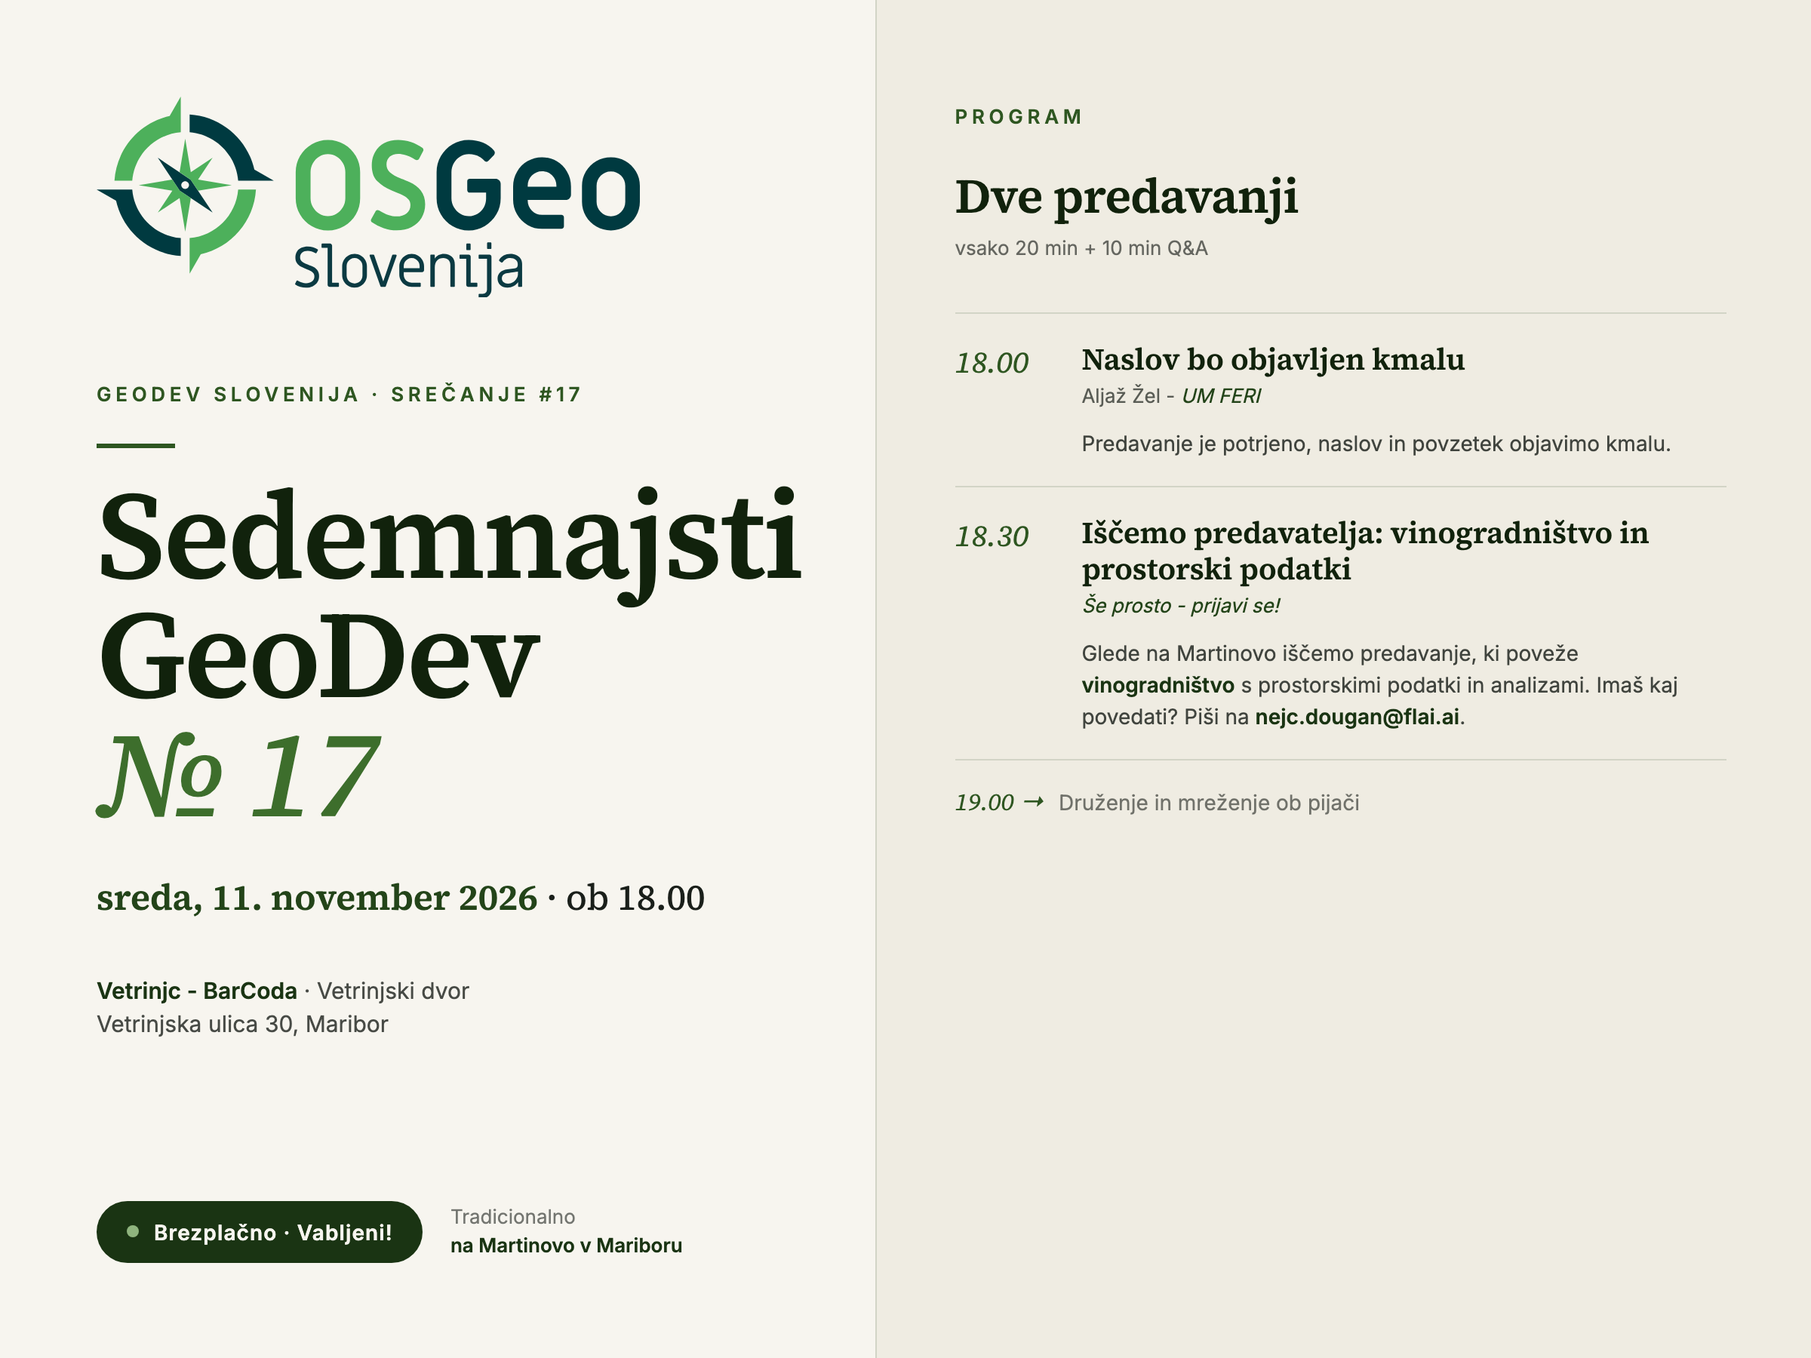
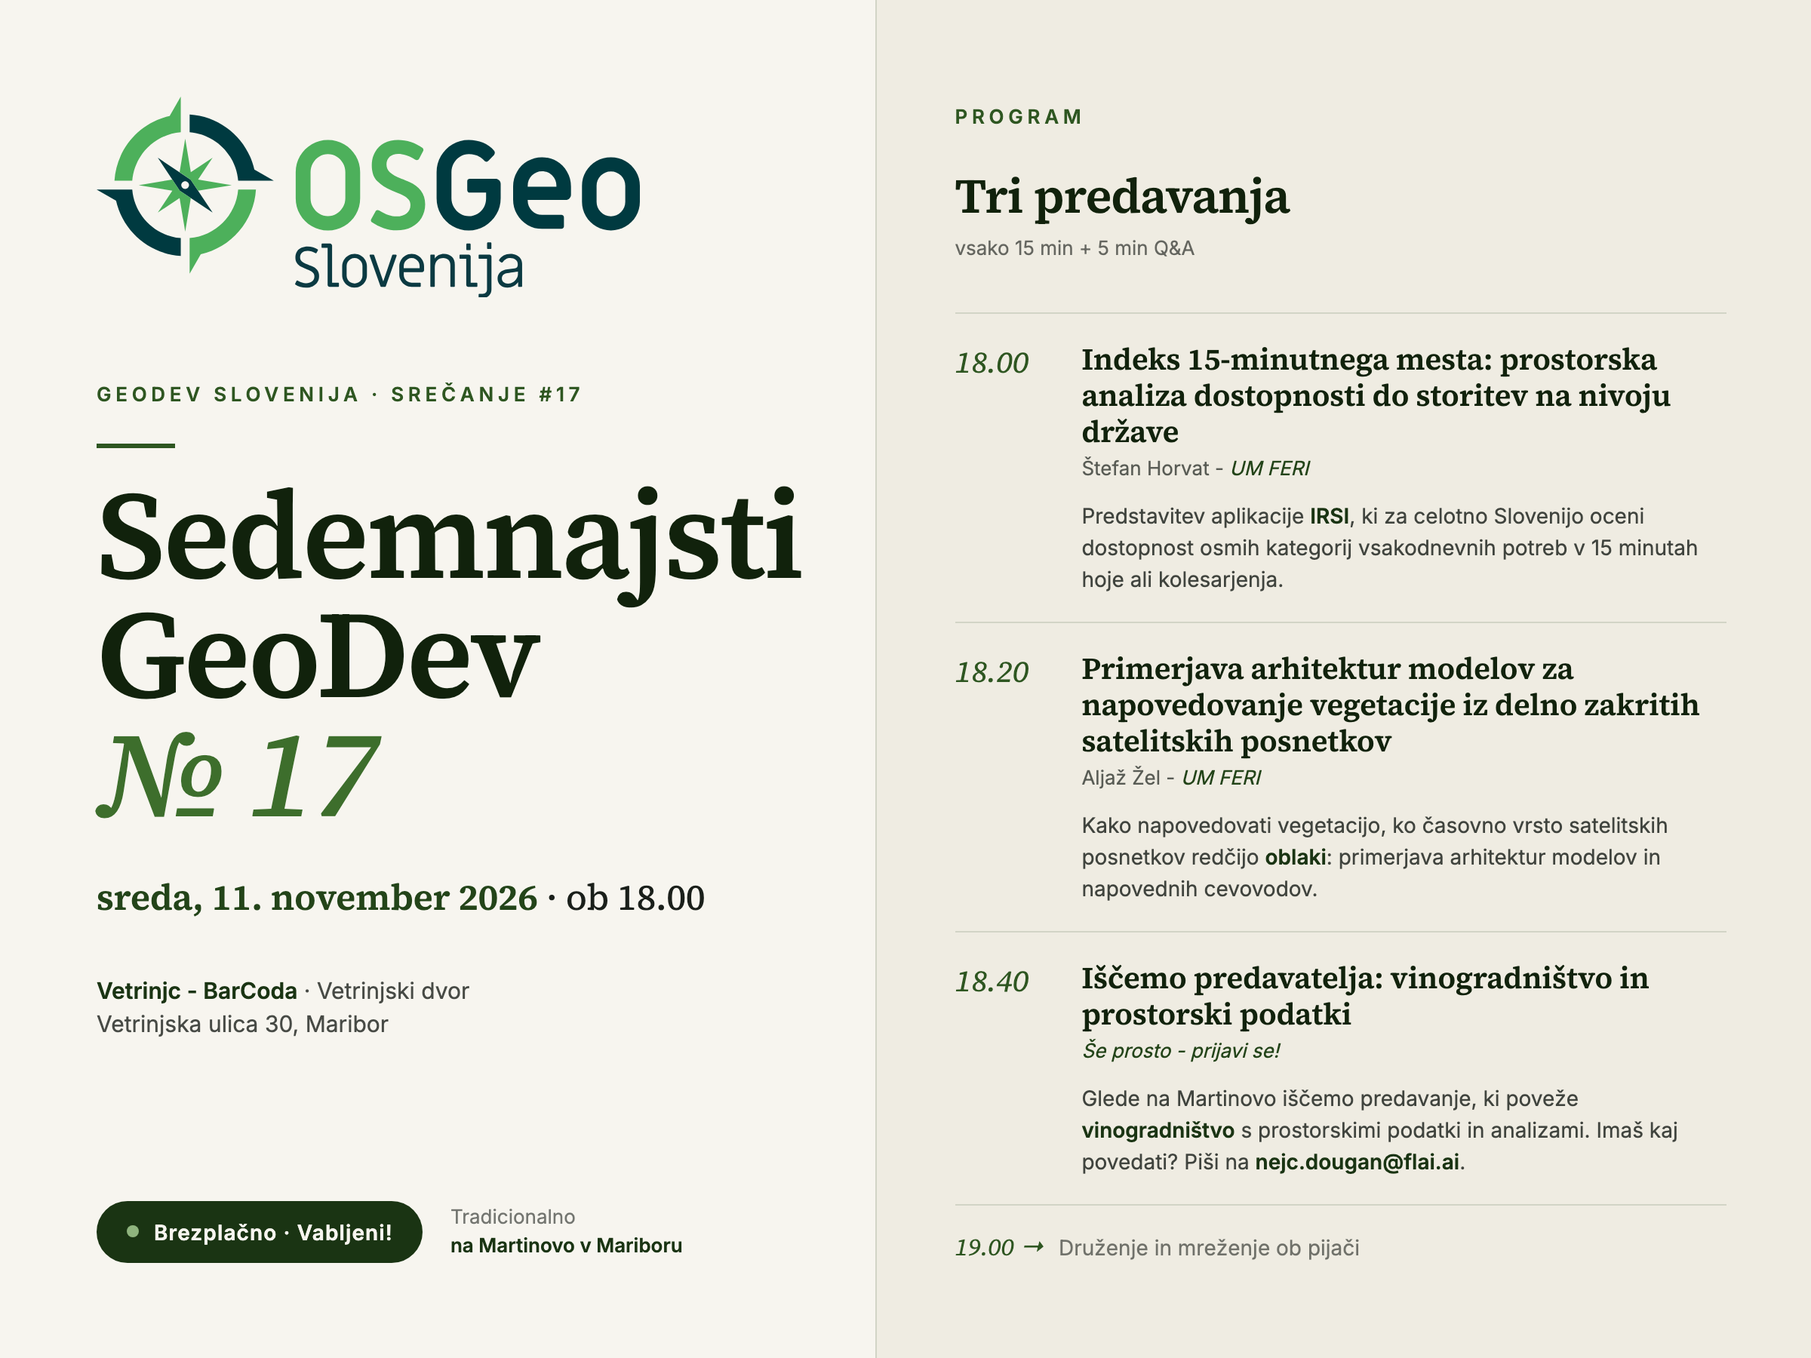
GeoDev 17: program, two confirmed talks

diff --git a/2026-17-meetup/banner-story.html b/2026-17-meetup/banner-story.html
@@ -38,7 +38,7 @@
     position: relative;
     overflow: hidden;
     box-sizing: border-box;
-    padding: 88px 80px 72px 80px;
+    padding: 80px 80px 60px 80px;
     display: flex; flex-direction: column;
   }
 
@@ -70,10 +70,10 @@
     border: 1px solid color-mix(in oklab, var(--moss-700) 8%, transparent);
   }
 
-  .logo { width: 460px; height: auto; position: relative; z-index: 2; }
+  .logo { width: 320px; height: auto; position: relative; z-index: 2; flex-shrink: 0; }
 
   .eyebrow {
-    margin-top: 64px;
+    margin-top: 36px;
     font-size: 22px;
     font-weight: 600;
     letter-spacing: 0.22em;
@@ -86,7 +86,7 @@
   h1 {
     font-family: var(--serif);
     font-weight: 600;
-    font-size: 116px;
+    font-size: 96px;
     line-height: 0.96;
     letter-spacing: -0.02em;
     margin: 28px 0 0 0;
@@ -99,7 +99,7 @@
   }
 
   .when {
-    margin-top: 44px;
+    margin-top: 32px;
     font-family: var(--serif);
     font-size: 40px;
     line-height: 1.18;
@@ -118,7 +118,7 @@
   .where strong { color: var(--moss-800); font-weight: 600; }
 
   .program {
-    margin-top: 64px;
+    margin-top: 36px;
     border-top: 1px solid color-mix(in oklab, var(--moss-700) 22%, transparent);
     padding-top: 32px;
   }
@@ -133,7 +133,7 @@
     display: grid;
     grid-template-columns: 84px 1fr;
     gap: 24px;
-    padding: 28px 0;
+    padding: 18px 0;
     border-bottom: 1px solid color-mix(in oklab, var(--moss-700) 12%, transparent);
   }
   .talk:last-child { border-bottom: none; padding-bottom: 18px; }
@@ -167,6 +167,12 @@
     max-width: 820px;
   }
 
+  .mingle {
+    margin: 8px 0 0 108px;
+    font-size: 22px;
+    color: color-mix(in oklab, var(--ink) 70%, transparent);
+  }
+  .mingle .t { font-family: var(--serif); font-style: italic; color: var(--moss-500); margin-right: 8px; }
   .foot {
     margin-top: auto;
     display: flex;
@@ -244,33 +250,36 @@
   </p>
 
   <div class="program">
-    <p class="program-label">Program · dve predavanji</p>
+    <p class="program-label">Program · tri predavanja</p>
 
     <div class="talk">
       <div class="idx">i.</div>
       <div class="body">
-        <p class="title">Naslov bo objavljen kmalu</p>
-        <p class="who">Aljaž Žel - <em>UM FERI</em></p>
-        <p class="lede">Predavanje je potrjeno, naslov in povzetek objavimo kmalu.</p>
+        <p class="title">Indeks 15-minutnega mesta: prostorska analiza dostopnosti do storitev na nivoju države</p>
+        <p class="who">Štefan Horvat - <em>UM FERI</em></p>
+        <p class="lede">Predstavitev aplikacije <strong>IRSI</strong>, ki za celotno Slovenijo oceni dostopnost osmih kategorij vsakodnevnih potreb v 15 minutah hoje ali kolesarjenja.</p>
       </div>
     </div>
 
     <div class="talk">
       <div class="idx">ii.</div>
       <div class="body">
-        <p class="title">Iščemo predavatelja: vinogradništvo in prostorski podatki</p>
-        <p class="who"><em>Še prosto - prijavi se!</em></p>
-        <p class="lede">Glede na Martinovo iščemo predavanje, ki poveže <strong>vinogradništvo</strong> s prostorskimi podatki in analizami. Imaš kaj povedati? Piši na <strong>nejc.dougan@flai.ai</strong>.</p>
+        <p class="title">Primerjava arhitektur modelov za napovedovanje vegetacije iz delno zakritih satelitskih posnetkov</p>
+        <p class="who">Aljaž Žel - <em>UM FERI</em></p>
+        <p class="lede">Kako napovedovati vegetacijo, ko časovno vrsto satelitskih posnetkov redčijo <strong>oblaki</strong>: primerjava arhitektur modelov in napovednih cevovodov.</p>
       </div>
     </div>
 
     <div class="talk">
       <div class="idx">iii.</div>
       <div class="body">
-        <p class="title">Druženje in mreženje ob pijači</p>
-        <p class="who">od 19.00 dalje</p>
+        <p class="title">Iščemo predavatelja: vinogradništvo in prostorski podatki</p>
+        <p class="who"><em>Še prosto - prijavi se!</em></p>
+        <p class="lede">Glede na Martinovo iščemo predavanje o <strong>vinogradništvu</strong> in prostorskih podatkih. Piši na <strong>nejc.dougan@flai.ai</strong>.</p>
       </div>
     </div>
+
+    <p class="mingle"><span class="t">19.00 →</span> Druženje in mreženje ob pijači</p>
   </div>
 
   <div class="foot">

diff --git a/2026-17-meetup/banner-landscape.html b/2026-17-meetup/banner-landscape.html
@@ -275,21 +275,30 @@
   <!-- RIGHT -->
   <div class="right">
     <p class="program-label">Program</p>
-    <h2>Dve predavanji</h2>
-    <p class="sub">vsako 20 min + 10 min Q&amp;A</p>
+    <h2>Tri predavanja</h2>
+    <p class="sub">vsako 15 min + 5 min Q&amp;A</p>
 
     <div class="talk-list">
       <div class="talk">
         <div class="time">18.00</div>
         <div>
-          <p class="title">Naslov bo objavljen kmalu</p>
-          <p class="who">Aljaž Žel - <em>UM FERI</em></p>
-          <p class="lede">Predavanje je potrjeno, naslov in povzetek objavimo kmalu.</p>
+          <p class="title">Indeks 15-minutnega mesta: prostorska analiza dostopnosti do storitev na nivoju države</p>
+          <p class="who">Štefan Horvat - <em>UM FERI</em></p>
+          <p class="lede">Predstavitev aplikacije <strong>IRSI</strong>, ki za celotno Slovenijo oceni dostopnost osmih kategorij vsakodnevnih potreb v 15 minutah hoje ali kolesarjenja.</p>
         </div>
       </div>
 
       <div class="talk">
-        <div class="time">18.30</div>
+        <div class="time">18.20</div>
+        <div>
+          <p class="title">Primerjava arhitektur modelov za napovedovanje vegetacije iz delno zakritih satelitskih posnetkov</p>
+          <p class="who">Aljaž Žel - <em>UM FERI</em></p>
+          <p class="lede">Kako napovedovati vegetacijo, ko časovno vrsto satelitskih posnetkov redčijo <strong>oblaki</strong>: primerjava arhitektur modelov in napovednih cevovodov.</p>
+        </div>
+      </div>
+
+      <div class="talk">
+        <div class="time">18.40</div>
         <div>
           <p class="title">Iščemo predavatelja: vinogradništvo in prostorski podatki</p>
           <p class="who"><em>Še prosto - prijavi se!</em></p>

diff --git a/2026-17-meetup/najava.md b/2026-17-meetup/najava.md
@@ -13,7 +13,7 @@ Besedila za napoved sedemnajstega GeoDev srečanja na različnih kanalih.
 
 ---
 
-🍇 **GeoDev Slovenija #17** se tradicionalno vrača **na Martinovo v Maribor**! Prvo predavanje je že potrjeno, za drugo pa še iščemo predavatelja, ki bi povezal **vinogradništvo** ter **prostorske podatke in analize**.
+🍇 **GeoDev Slovenija #17** se tradicionalno vrača **na Martinovo v Maribor**! Potrjeni sta dve predavanji, za tretje pa še iščemo predavatelja, ki bi povezal **vinogradništvo** ter **prostorske podatke in analize**.
 
 📍 Vetrinjc - BarCoda, Vetrinjski dvor, Vetrinjska ulica 30, Maribor
 📅 sreda, 11. november 2026
@@ -21,22 +21,25 @@ Besedila za napoved sedemnajstega GeoDev srečanja na različnih kanalih.
 
 **Program:**
 
-→ **Naslov bo objavljen kmalu** · *Aljaž Žel, UM FERI*
-Predavanje je potrjeno, naslov in povzetek objavimo kmalu.
+→ **Indeks 15-minutnega mesta: prostorska analiza dostopnosti do storitev na nivoju države** · *Štefan Horvat, UM FERI*
+Predstavitev IRSI, spletne aplikacije, ki za celotno Slovenijo oceni dostopnost osmih kategorij vsakodnevnih potreb v 15 minutah hoje ali kolesarjenja.
+
+→ **Primerjava arhitektur modelov za napovedovanje vegetacije iz delno zakritih satelitskih posnetkov** · *Aljaž Žel, UM FERI*
+Kako napovedovati vegetacijo, ko časovno vrsto satelitskih posnetkov redčijo oblaki: primerjava arhitektur modelov in napovednih cevovodov.
 
 → **Iščemo predavatelja: vinogradništvo in prostorski podatki**
 Imaš projekt, analizo ali orodje, ki povezuje vinograde in prostorske podatke? Piši na nejc.dougan@flai.ai.
 
 Dogodek je **brezplačen** in odprt vsem - od navdušencev do GIS profesionalcev. Omejeno število mest, zato priporočamo prijavo: https://osgeo.si/#/dogodki/geodev-17 🦝
 
-#GeoDev #OSGeo #Slovenija #GIS #Maribor #Martinovo #Vinogradništvo #Geospatial #OpenSource
+#GeoDev #OSGeo #Slovenija #GIS #Maribor #Martinovo #RemoteSensing #MachineLearning #Vinogradništvo #Geospatial #OpenSource
 
 ---
 
 ## 2. Newsletter / e-mail (MailChimp)
 
 > **Subject:** GeoDev #17 - vabljeni na sedemnajsto srečanje 🌍
-> **Preview text:** Na Martinovo v Mariboru: predavanje Aljaža Žela (UM FERI), za drugo predavanje pa iščemo temo, ki poveže vinogradništvo in prostorske podatke.
+> **Preview text:** Na Martinovo v Mariboru: indeks 15-minutnega mesta za vso Slovenijo in napovedovanje vegetacije iz oblačnih satelitskih posnetkov, za tretje predavanje pa iščemo temo, ki poveže vinogradništvo in prostorske podatke.
 
 ---
 
@@ -46,14 +49,19 @@ GeoDev Meetup Slovenija se tradicionalno seli **na Martinovo v Maribor**. Vabimo
 
 ### Program
 
-**18.00 - Naslov bo objavljen kmalu**
+**18.00 - Indeks 15-minutnega mesta: prostorska analiza dostopnosti do storitev na nivoju države**
+*Štefan Horvat, UM FERI*
+
+Model 15-minutnega mesta predvideva, da so vsakodnevne potrebe dostopne v kratkem času hoje ali kolesarjenja. Predstavljen bo IRSI (Indeks razvitosti Slovenije), interaktivna spletna aplikacija za vrednotenje dostopnosti storitev na območju celotne Slovenije. Aplikacija ocenjuje dostopnost osmih kategorij vsakodnevnih potreb v 15 minutah hoje ali kolesarjenja na podlagi cestnega omrežja in podatkov o približno 34.500 lokacijah. Predstavljeni bodo metodologija, tehnična zasnova in možnosti uporabe pri prostorskem načrtovanju ter analizi investicijskih priložnosti.
+
+**18.20 - Primerjava arhitektur modelov za napovedovanje vegetacije iz delno zakritih satelitskih posnetkov**
 *Aljaž Žel, UM FERI*
 
-Predavanje je potrjeno, naslov in povzetek objavimo kmalu.
+Kratkoročno napovedovanje vegetacije iz satelitskih posnetkov pogosto ovira oblačnost, zaradi katere je časovna vrsta posnetkov redka in neenakomerno vzorčena. Obstoječi pristopi večinoma predpostavljajo vhodne podatke brez oblakov. V sklopu predstavitve bodo primerjane različne arhitekture modelov in zasnove napovednih cevovodov, pri katerih so manjkajoči podatki najprej zapolnjeni ali pa je napovedovanje izvedeno neposredno na podlagi razpoložljivih opazovanj. Ob tem bo prikazano širše metodološko vprašanje napovedovanja v okoliščinah, ko vsa opazovanja niso na voljo, in kako je pristop mogoče prenesti na druga področja.
 
-**18.30 - Iščemo predavatelja: vinogradništvo in prostorski podatki**
+**18.40 - Iščemo predavatelja: vinogradništvo in prostorski podatki**
 
-Drugo predavanje je še prosto! Glede na datum dogodka iščemo predavanje, ki bi povezalo **vinogradništvo** ter **prostorske podatke in analize**. Če bi kaj želel povedati, piši na [nejc.dougan@flai.ai](mailto:nejc.dougan@flai.ai).
+Tretje predavanje je še prosto! Glede na datum dogodka iščemo predavanje, ki bi povezalo **vinogradništvo** ter **prostorske podatke in analize**. Če bi kaj želel povedati, piši na [nejc.dougan@flai.ai](mailto:nejc.dougan@flai.ai).
 
 **19.00 - Druženje in mreženje ob pijači**
 
@@ -83,18 +91,23 @@ P.S.: Imate temo, o kateri bi želeli predavati, ali poznate koga, ki ga je vred
 
 ---
 
-Sedemnajsti **GeoDev Meetup** bo tradicionalno **na Martinovo v Mariboru**. Dve predavanji (vsako 20 minut + 10 minut Q&A), nato druženje ob pijači.
+Sedemnajsti **GeoDev Meetup** bo tradicionalno **na Martinovo v Mariboru**. Tri predavanja (vsako 15 minut + 5 minut Q&A), nato druženje ob pijači.
 
 ## 🗓 Program
 
-**18.00 · Naslov bo objavljen kmalu**
+**18.00 · Indeks 15-minutnega mesta: prostorska analiza dostopnosti do storitev na nivoju države**
+*Štefan Horvat, UM FERI*
+
+Model 15-minutnega mesta predvideva, da so vsakodnevne potrebe dostopne v kratkem času hoje ali kolesarjenja. Predstavljen bo IRSI (Indeks razvitosti Slovenije), interaktivna spletna aplikacija za vrednotenje dostopnosti storitev na območju celotne Slovenije. Aplikacija ocenjuje dostopnost osmih kategorij vsakodnevnih potreb v 15 minutah hoje ali kolesarjenja na podlagi cestnega omrežja in podatkov o približno 34.500 lokacijah. Predstavljeni bodo metodologija, tehnična zasnova in možnosti uporabe pri prostorskem načrtovanju ter analizi investicijskih priložnosti.
+
+**18.20 · Primerjava arhitektur modelov za napovedovanje vegetacije iz delno zakritih satelitskih posnetkov**
 *Aljaž Žel, UM FERI*
 
-Predavanje je potrjeno, naslov in povzetek objavimo kmalu.
+Kratkoročno napovedovanje vegetacije iz satelitskih posnetkov pogosto ovira oblačnost, zaradi katere je časovna vrsta posnetkov redka in neenakomerno vzorčena. Obstoječi pristopi večinoma predpostavljajo vhodne podatke brez oblakov. V sklopu predstavitve bodo primerjane različne arhitekture modelov in zasnove napovednih cevovodov, pri katerih so manjkajoči podatki najprej zapolnjeni ali pa je napovedovanje izvedeno neposredno na podlagi razpoložljivih opazovanj. Ob tem bo prikazano širše metodološko vprašanje napovedovanja v okoliščinah, ko vsa opazovanja niso na voljo, in kako je pristop mogoče prenesti na druga področja.
 
-**18.30 · Iščemo predavatelja: vinogradništvo in prostorski podatki**
+**18.40 · Iščemo predavatelja: vinogradništvo in prostorski podatki**
 
-Drugo predavanje je še prosto! Glede na datum dogodka iščemo predavanje, ki bi povezalo **vinogradništvo** ter **prostorske podatke in analize**. Če bi kaj želel povedati, piši na [nejc.dougan@flai.ai](mailto:nejc.dougan@flai.ai).
+Tretje predavanje je še prosto! Glede na datum dogodka iščemo predavanje, ki bi povezalo **vinogradništvo** ter **prostorske podatke in analize**. Če bi kaj želel povedati, piši na [nejc.dougan@flai.ai](mailto:nejc.dougan@flai.ai).
 
 **19.00 · Druženje in mreženje ob pijači**
 
@@ -116,8 +129,9 @@ Dogodek je **brezplačen** in odprt vsem - od navdušencev do GIS profesionalcev
 
 🍇 **GeoDev Slovenija #17** - sreda, 11. november 2026, 18.00, Vetrinjc - BarCoda, Maribor. Tradicionalno na Martinovo!
 
-Dve predavanji:
-• **Naslov kmalu** (Aljaž Žel, UM FERI)
+Tri predavanja:
+• **Indeks 15-minutnega mesta: prostorska analiza dostopnosti do storitev na nivoju države** (Štefan Horvat, UM FERI)
+• **Primerjava arhitektur modelov za napovedovanje vegetacije iz delno zakritih satelitskih posnetkov** (Aljaž Žel, UM FERI)
 • **Iščemo predavatelja!** Imaš kaj povedati o vinogradništvu in prostorskih podatkih? Piši na nejc.dougan@flai.ai
 
 Omejeno število mest. Več o programu in prijava → {{LUMA_URL}}
@@ -130,7 +144,7 @@ Omejeno število mest. Več o programu in prijava → {{LUMA_URL}}
 
 ---
 
-🍇 GeoDev #17 - na Martinovo, 11. nov 2026, 18.00 v Vetrinjcu, Maribor. Predava Aljaž Žel (UM FERI), za drugo predavanje iščemo temo o vinogradništvu in prostorskih podatkih. Brezplačno, prijava: {{LUMA_URL}} #GeoDev #OSGeo #GIS
+🍇 GeoDev #17 - na Martinovo, 11. nov 2026, 18.00 v Vetrinjcu, Maribor. 15-minutno mesto (Š. Horvat) · vegetacija iz oblačnih satelitskih posnetkov (A. Žel), za tretje predavanje iščemo temo o vinogradništvu. Brezplačno, prijava: {{LUMA_URL}} #GeoDev #OSGeo #GIS
 
 ---
 
@@ -140,4 +154,4 @@ Omejeno število mest. Več o programu in prijava → {{LUMA_URL}}
 
 ---
 
-**GeoDev Meetup #17** poteka tradicionalno na Martinovo, v sredo, **11. novembra 2026, ob 18.00** v Vetrinjcu - BarCodi (Vetrinjski dvor) v Mariboru. Prvo predavanje bo imel Aljaž Žel (UM FERI), naslov objavimo kmalu. Za drugo predavanje še iščemo predavatelja: glede na datum bi radi slišali predavanje, ki poveže vinogradništvo ter prostorske podatke in analize. Če bi kaj želel povedati, piši na [nejc.dougan@flai.ai](mailto:nejc.dougan@flai.ai). Dogodek je brezplačen, prijava prek [Luma]({{LUMA_URL}}).
+**GeoDev Meetup #17** poteka tradicionalno na Martinovo, v sredo, **11. novembra 2026, ob 18.00** v Vetrinjcu - BarCodi (Vetrinjski dvor) v Mariboru. Štefan Horvat (UM FERI) bo predstavil indeks 15-minutnega mesta, prostorsko analizo dostopnosti do storitev na nivoju države, Aljaž Žel (UM FERI) pa primerjavo arhitektur modelov za napovedovanje vegetacije iz delno zakritih satelitskih posnetkov. Za tretje predavanje še iščemo predavatelja: glede na datum bi radi slišali predavanje, ki poveže vinogradništvo ter prostorske podatke in analize. Če bi kaj želel povedati, piši na [nejc.dougan@flai.ai](mailto:nejc.dougan@flai.ai). Dogodek je brezplačen, prijava prek [Luma]({{LUMA_URL}}).

diff --git a/2026-17-meetup/README.md b/2026-17-meetup/README.md
@@ -9,20 +9,28 @@
 
 ## Program
 
-Tokrat že tradicionalno __na Martinovo v Mariboru__, z __dvema predavanjema__ (vsako 20 min + 10 min Q&A).
+Tokrat že tradicionalno __na Martinovo v Mariboru__, s __tremi predavanji__ (vsako 15 min + 5 min Q&A).
 
 
-__Naslov bo objavljen kmalu__
-18:00 - 18:30
-Predavanje je potrjeno, naslov in povzetek bosta objavljena kmalu.
+__Indeks 15-minutnega mesta: prostorska analiza dostopnosti do storitev na nivoju države__
+18:00 - 18:20
+Model 15-minutnega mesta predvideva, da so vsakodnevne potrebe dostopne v kratkem času hoje ali kolesarjenja. Predstavljen bo IRSI (Indeks razvitosti Slovenije), interaktivna spletna aplikacija za vrednotenje dostopnosti storitev na območju celotne Slovenije. Aplikacija ocenjuje dostopnost osmih kategorij vsakodnevnih potreb v 15 minutah hoje ali kolesarjenja na podlagi cestnega omrežja in podatkov o približno 34.500 lokacijah. Predstavljeni bodo metodologija, tehnična zasnova in možnosti uporabe pri prostorskem načrtovanju ter analizi investicijskih priložnosti.
+
+Štefan Horvat, Univerza v Mariboru, Fakulteta za elektrotehniko, računalništvo in informatiko (UM FERI)
+
+---
+
+__Primerjava arhitektur modelov za napovedovanje vegetacije iz delno zakritih satelitskih posnetkov__
+18:20 - 18:40
+Kratkoročno napovedovanje vegetacije iz satelitskih posnetkov pogosto ovira oblačnost, zaradi katere je časovna vrsta posnetkov redka in neenakomerno vzorčena. Obstoječi pristopi večinoma predpostavljajo vhodne podatke brez oblakov. V sklopu predstavitve bodo primerjane različne arhitekture modelov in zasnove napovednih cevovodov, pri katerih so manjkajoči podatki najprej zapolnjeni ali pa je napovedovanje izvedeno neposredno na podlagi razpoložljivih opazovanj. Ob tem bo prikazano širše metodološko vprašanje napovedovanja v okoliščinah, ko vsa opazovanja niso na voljo, in kako je pristop mogoče prenesti na druga področja.
 
 Aljaž Žel, Univerza v Mariboru, Fakulteta za elektrotehniko, računalništvo in informatiko (UM FERI)
 
 ---
 
 __Iščemo predavatelja: vinogradništvo in prostorski podatki__
-18:30 - 19:00
-Drugo predavanje je še prosto! Glede na datum dogodka iščemo predavanje, ki bi povezalo __vinogradništvo__ ter __prostorske podatke in analize__. Če bi kaj želel povedati, piši na [nejc.dougan@flai.ai](mailto:nejc.dougan@flai.ai).
+18:40 - 19:00
+Tretje predavanje je še prosto! Glede na datum dogodka iščemo predavanje, ki bi povezalo __vinogradništvo__ ter __prostorske podatke in analize__. Če bi kaj želel povedati, piši na [nejc.dougan@flai.ai](mailto:nejc.dougan@flai.ai).
 
 TBD
 
